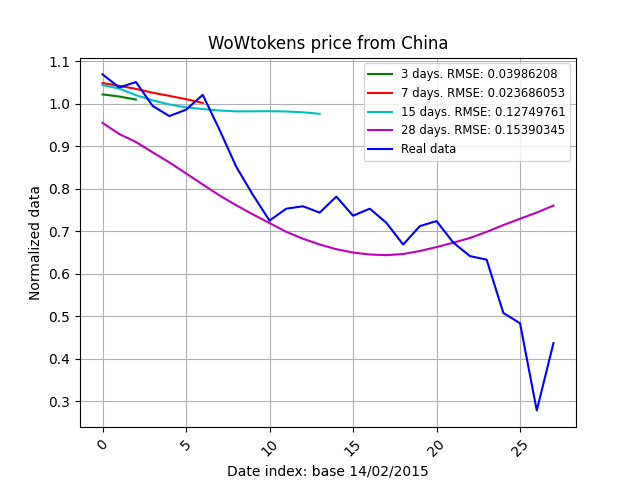
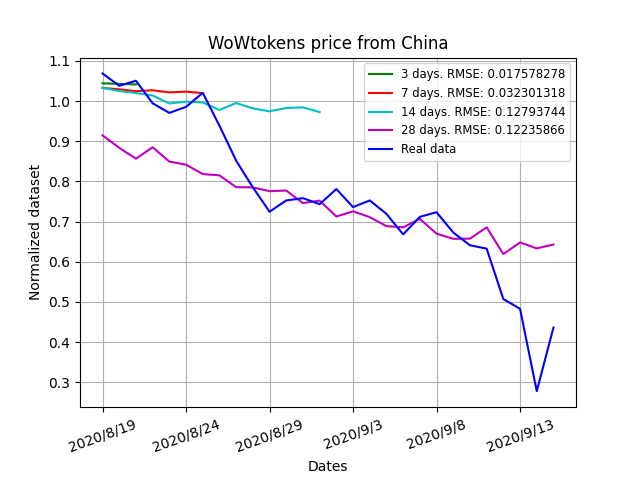
V01

diff --git a/model_test.py b/model_test.py
@@ -24,6 +24,8 @@ if __name__ == '__main__':
             data_test_x = data_x[-test_size:]
             data_train_y = data_y[:-test_size]
             data_test_y = data_y[-test_size:]
+            # Dates str for plot.
+            dates = proc.dates_list
 
             model.load_weights(filepath=model_load_path)
             predict = model.call(data_test_x)
@@ -32,14 +34,19 @@ if __name__ == '__main__':
             data_pred_series_y = window_to_series(predict, window=window)
             data_train_series_y = window_to_series(data_train_y, window=window)
 
-            rmse = tf.math.reduce_mean(
+            rmse = tf.math.sqrt(
                 tf.keras.losses.mean_squared_error(y_true=data_in_series_y, y_pred=data_pred_series_y))
             print('{} RMSE: {}%'.format(list_key[key], rmse))
 
-            plot_graph(true_data=np.append(data_train_series_y, data_in_series_y, axis=0), window=window,
+            plot_graph(true_data=np.append(data_train_series_y, data_in_series_y, axis=0),
+                       dates=dates,
+                       window=window,
+                       test_size=test_size,
                        predicted_data=[np.append(data_train_series_y, data_pred_series_y, axis=0),
                                        '{} : RMSE: {:.5f}'.format(list_key[key], rmse.numpy())],
-                       title=list_key[key], plot_predict=True, plot=True)
+                       title=list_key[key],
+                       file_name="True data as look_back "+list_key[key],
+                       plot_predict=True, plot=True)
 
 # Test type 1, feed itself with generated data as it's predicting forward. It is generated two graphs, one with full
 # data that is generated by the model and other showing all intervals that where chosen in "predicted_days" comparing
@@ -48,44 +55,53 @@ if __name__ == '__main__':
         all_predicts = []
         all_true_data = []
         all_train_data = []
+        dates_to_plot_all = []
         for key in range(len(list_key)):
             for day in range(len(predict_days)):
                 window = configs_test[day][0]
                 look_back = configs_test[day][1]
                 config.window = window
                 config.look_back = look_back
+                # Defining classes to data and model generation.
                 proc = Processing()
                 model = LSTM_Model(window=window, look_back=look_back)
+                # Definition of which weights to load, if desired.
                 model_load_path = 'model/w{}/lb{}_trained_with_{}_total_epochs{}' \
                     .format(window, look_back, list_key[4], total_epochs)
+                model.load_weights(filepath=model_load_path)
 
                 data_x, data_y = proc.get_data(key=key, window=window, look_back=look_back)
+                dates = proc.dates_list
+                # Dataset preparation.
                 test_size = int(data_x.shape[0] * test_rate)
                 data_test_x = data_x[-test_size:]
                 data_test_y = data_y[-test_size:]
                 data_train_y = data_y[:-test_size]
+                # Dates list to plot.
+                dates_train = dates[:-test_size]
+                dates_test = dates[-test_size:]
+                dates_to_plot_all = dates_test[:configs_test[3][0]]
 
-                model.load_weights(filepath=model_load_path)
-
+                # Testing the complete test dataset generation by the model.
                 data_pred_test = data_test_x[0]
                 predict_list = []
-                for index in range(data_test_x.shape[0]):
+                for _ in range(data_test_x.shape[0]):
                     predict_value = model.call(inputs=tf.expand_dims(data_pred_test, axis=0))
                     predict_list.append(tf.squeeze(predict_value, axis=0))
                     predict_value = tf.reshape(predict_value, shape=[window, 1])
                     data_transfer = data_pred_test[..., 1:]
                     data_transfer = np.concatenate([data_transfer, predict_value], axis=1)
                     data_pred_test = data_transfer
-
                 predict = tf.cast(predict_list, dtype=tf.dtypes.float32)
 
-                data_in_series_y = window_to_series(data_test_y, window=window)
-                data_pred_series_y = window_to_series(predict, window=window)
-                data_train_series_y = window_to_series(data_train_y, window=window)
+                data_in_series_y = proc.real_dataset(key)[-test_size:]
+                data_pred_series_y = window_to_series(predict, window=window)[:test_size]
+                data_train_series_y = proc.real_dataset(key)[:-test_size]
 
-                pred_y_unit = data_pred_series_y[:window]
-                test_y_unit = data_in_series_y[:window]
-                test_x_unit = data_train_series_y[-look_back:]
+                pred_y_unit = tf.squeeze(model.call(inputs=tf.expand_dims(data_test_x[0], axis=0)),axis=0)
+                test_y_unit = data_test_y[0]
+                test_x_unit = data_in_series_y[:look_back]
+
 
                 rmse = tf.math.sqrt(
                     tf.keras.losses.mean_squared_error(y_true=data_in_series_y, y_pred=data_pred_series_y))
@@ -96,19 +112,31 @@ if __name__ == '__main__':
                 all_true_data.append(test_y_unit)
                 all_train_data.append(test_x_unit)
 
-                plot_graph(true_data=np.append(data_train_series_y, data_in_series_y, axis=0), window=window,
+                plot_graph(true_data=np.append(data_train_series_y, data_in_series_y, axis=0),
+                           dates=dates,
+                           window=window,
+                           test_size=test_size,
                            predicted_data=[np.append(data_train_series_y, data_pred_series_y, axis=0),
                                            '{} : RMSE: {:.5f}'.format(list_key[key], rmse.numpy())],
-                           title=list_key[key], plot_predict=True, plot=True)
+                           title=list_key[key],
+                           file_name="all data",
+                           plot_predict=True,
+                           plot=False)
 
-                plot_graph(true_data=np.append(test_x_unit, test_y_unit, axis=0), window=window,
+                plot_graph(true_data=np.append(test_x_unit, test_y_unit, axis=0),
+                           window=window,
+                           test_size=window,
+                           dates=dates_test[:(window+look_back)],
                            predicted_data=[np.append(test_x_unit, pred_y_unit, axis=0),
                                            '{} : RMSE: {:.5f}'.format(list_key[key], rmse_2.numpy())],
-                           title=list_key[key], plot_predict=True, plot=True)
+                           title=list_key[key],
+                           plot_predict=True,
+                           plot=False)
 
-        for index in range(len(list_key)):
-            plot_graph_array(true_data=all_true_data[len(predict_days) * index+len(predict_days) - 1:
-                                                     len(predict_days) * index+len(predict_days)][0],
-                             predicted_data=all_predicts[len(predict_days) * index:
-                                                         index * len(predict_days) + len(predict_days)],
-                             title=list_key[index], plot=True)
+            plot_graph_array(true_data=all_true_data[len(predict_days) * key + len(predict_days) - 1:
+                                                     len(predict_days) * key + len(predict_days)][0],
+                             predicted_data=all_predicts[len(predict_days) * key:
+                                                         key * len(predict_days) + len(predict_days)],
+                             dates=dates_to_plot_all,
+                             title=list_key[key],
+                             plot=False)

diff --git a/data_proc.py b/data_proc.py
@@ -7,12 +7,12 @@ import time
 import datetime as dt
 
 
-def plot_graph(true_data, window,predicted_data=None, plot_predict=False, title='', plot = False, plot_tick=5):
+def plot_graph(true_data, window, dates, test_size=0, predicted_data=None, plot_predict=False, title='',
+               plot=False, file_name='days predicted', plot_tick=5):
     if predicted_data is None:
         predicted_data = []
     fig, ax = plt.subplots()
-    # legends and colors
-    # ax.plot(data2, color='#d7191c', label=data2_name) # ls=--
+
     if plot_predict:
         ax.plot(predicted_data[0], label=predicted_data[1], color='red')
     ax.plot(true_data, label="Real data", color='blue')
@@ -21,33 +21,44 @@ def plot_graph(true_data, window,predicted_data=None, plot_predict=False, title=
     ax.legend(loc='best', shadow=False, fontsize='small')
     ax.set_title('WoWtokens price from {}. Predicted {} days.'.format(title.capitalize(), window))
     # X legend and Y legend
-    plt.xticks(np.arange(0, true_data.shape[0], true_data.shape[0]//plot_tick), rotation=45)
-    plt.xlabel('Date index: base 14/02/2015')
-    plt.ylabel('Normalized data')
-    plt.savefig('graphs-2/{} - all data pred {}'.format(title, window))
+    ticks_xaxis = np.arange(0, true_data.shape[0], true_data.shape[0]//plot_tick)
+    plt.xticks(ticks_xaxis, labels=[dates[i] for i in ticks_xaxis], rotation=20)
+    if not test_size == 0:
+        plt.axline((true_data.shape[0]-test_size, np.max(predicted_data[0])*0.8),
+                   (true_data.shape[0]-test_size, np.min(predicted_data[0])*0.8), color='black', lw=1.5)
+    plt.xlabel('Dates')
+    plt.ylabel('Normalized dataset')
+    plt.subplots_adjust(left=0.125, bottom=0.152, right=0.9, top=0.88, wspace=0.2, hspace=0.2)
+    plt.savefig('graphs/{} - {} {}'.format(title, file_name, window))
     if plot:
         plt.show()
 
 
-def plot_graph_array(true_data, predicted_data, title='', plot=False, plot_tick=5):
+def plot_graph_array(true_data, dates, predicted_data, test_size=0, title='',
+                     plot=False, file_name="all predicts", plot_tick=5):
     fig, ax = plt.subplots()
     # legends and colors
     # ax.plot(data2, color='#d7191c', label=data2_name) # ls=--
     colors = ['g', 'r', 'c', 'm', 'y', ]
     for i in range(len(predicted_data)):
         predict_days = predicted_data[i][2]
-        ax.plot(predicted_data[i][0], label=str(predict_days)+" days. RMSE: "+str(predicted_data[i][1])
-                , color=colors[i])
+        ax.plot(predicted_data[i][0], label=str(predict_days)+" days. RMSE: "+str(predicted_data[i][1]),
+                color=colors[i])
     ax.plot(true_data, label="Real data", color='b')
     ax.grid()
     # position of the legend
     ax.legend(loc='best', shadow=False, fontsize='small')
     ax.set_title('WoWtokens price from ' + title.capitalize())
     # X legend and Y legend
-    plt.xticks(np.arange(0, true_data.shape[0], true_data.shape[0]//plot_tick), rotation=45)
-    plt.xlabel('Date index: base 14/02/2015')
-    plt.ylabel('Normalized data')
-    plt.savefig('graphs-2/{} - todos os dias'.format(title))
+    ticks_xaxis = np.arange(0, true_data.shape[0], true_data.shape[0] // plot_tick)
+    plt.xticks(ticks_xaxis, labels=[dates[i] for i in ticks_xaxis], rotation=20)
+    if not test_size == 0:
+        plt.axline((true_data.shape[0]-test_size, np.max(predicted_data[0])*0.8),
+                   (true_data.shape[0]-test_size, np.min(predicted_data[0])*0.8), color='black', lw=1.5)
+    plt.xlabel('Dates')
+    plt.ylabel('Normalized dataset')
+    plt.subplots_adjust(left=0.125, bottom=0.152, right=0.9, top=0.88, wspace=0.2, hspace=0.2)
+    plt.savefig('graphs/{} - {}'.format(title, file_name))
     if plot:
         plt.show()
 
@@ -66,7 +77,7 @@ def date_inverse_conver(x):
     return time_convert.total_seconds()
 
 
-def date_index_dict(y=2015, m=4, d=12 ):
+def date_index_dict(y=2015, m=4, d=12):
     # First day of series of data. Using timedelta 1 to manipulate the indexing in python.
     d_day = dt.datetime(year=y, month=m, day=d) + dt.timedelta(days=1)
     t_day = dt.datetime.today() + dt.timedelta(days=1)
@@ -97,6 +108,7 @@ class Processing(object):
         self.list_currency_types = {"eu": 'EUR', "china": 'CNY', "korea": "KRW", "taiwan": "TWD"}
         self.currency_token = {"us": 20, "eu": 20, "china": 75, "korea": 22000, "taiwan": 500}
         _, self.dates_dict = date_index_dict()
+        self.dates_list = []
         # Variables to store max_min and mean_std values to further inverse_normalization if needed.
         self.max_min = []
         self.mean_std = []
@@ -148,6 +160,11 @@ class Processing(object):
             normalized_dataset = (dataset - dataset.mean()) / (dataset.std())
             self.max_min = [dataset.max(), dataset.min()]
             self.keys = dataset.columns.to_list()
+
+        # Final list of range of dates in normalized_dataset.
+        self.dates_list = list(self.dates_dict.keys())[normalized_dataset.index.values.tolist()[0]:
+                                                       (normalized_dataset.index.values.tolist()[-1] + 1)]
+
         return normalized_dataset.to_numpy()
 
     def inverse_normalization(self, data, key=False):
@@ -180,3 +197,6 @@ class Processing(object):
         x_data = tf.cast(x_data, dtype=tf.dtypes.float32)
         y_data = tf.cast(y_data, dtype=tf.dtypes.float32)
         return x_data, y_data
+
+    def real_dataset(self, key):
+        return self.normalized_data[..., key]

diff --git a/config.py b/config.py
@@ -1,4 +1,3 @@
-
 # Dataset creation config
 list_key = ["us", "eu", "china", "korea", "taiwan"]
 columns = ["us", "eu", "china", "korea", "taiwan"]
@@ -6,7 +5,7 @@ dataset_csv_path = "dataset/dataset_complete.csv"
 # Conversion variables.
 convert_to_USD = True
 list_currency_types = {"eu": 'EUR', "china": 'CNY', "korea": "KRW", "taiwan": "TWD"}
-# Price per WoWtoken
+# Price per WoWtoken.
 currency_token = {"us": 20, "eu": 20, "china": 75, "korea": 22000, "taiwan": 500}
 
 # "mean" or "min_max"
@@ -14,7 +13,7 @@ normalization = "mean"
 
 # LSTM config
 configs_test = [[3, 30], [7, 45], [14, 90], [28, 180]]
-predict_choice = 2
+predict_choice = 0
 total_epochs = 1750
 batch_size = 100
 test_rate = 0.15
@@ -28,4 +27,4 @@ look_back = configs_test[predict_choice][1]
 # all values giving to it only the look_back data, and them generating it's own data to generate the curve, which
 # can be tweaked in predict_days and inside the code in model_test.py.
 test_type = 1
-predict_days = [3, 7, 15, 28]
+predict_days = [3, 7, 14, 28]

diff --git a/model_train.py b/model_train.py
@@ -32,11 +32,12 @@ loss = tf.keras.losses.MeanSquaredError()
 loss_mean = tf.keras.metrics.Mean()
 val_loss_mean = tf.keras.metrics.Mean()
 model = LSTM_Model(window=window, look_back=look_back)
+lr_scheduler = tf.keras.optimizers.schedules.ExponentialDecay(initial_learning_rate=0.0001, decay_steps=5000,
+                                                              decay_rate=0.9)
+optimizer = tf.keras.optimizers.Adamax(learning_rate=lr_scheduler, epsilon=0.002)
 
 for key in range(len(list_key)):
-    lr_scheduler = tf.keras.optimizers.schedules.ExponentialDecay(initial_learning_rate=0.001, decay_steps=5000,
-                                                                  decay_rate=0.9)
-    optimizer = tf.keras.optimizers.Adamax(learning_rate=lr_scheduler, epsilon=0.002)
+
     start_time = time.time()
     data_x, data_y = proc.get_data(key=key, look_back=look_back, window=window)
     test_size = int(data_x.shape[0] * test_rate)

diff --git a/bin/model.py b/bin/model.py
@@ -1,9 +1,11 @@
+from abc import ABC
+
 from tensorflow.keras.layers import LSTM, Dense, Dropout
 from tensorflow.keras.models import Sequential
 from tensorflow.keras.models import Model
 
 
-class LSTM_Model(Model):
+class LSTM_Model(Model, ABC):
     def __init__(self, window, look_back, *args, **kwargs):
         super().__init__(*args, **kwargs)
         self.model = Sequential()
